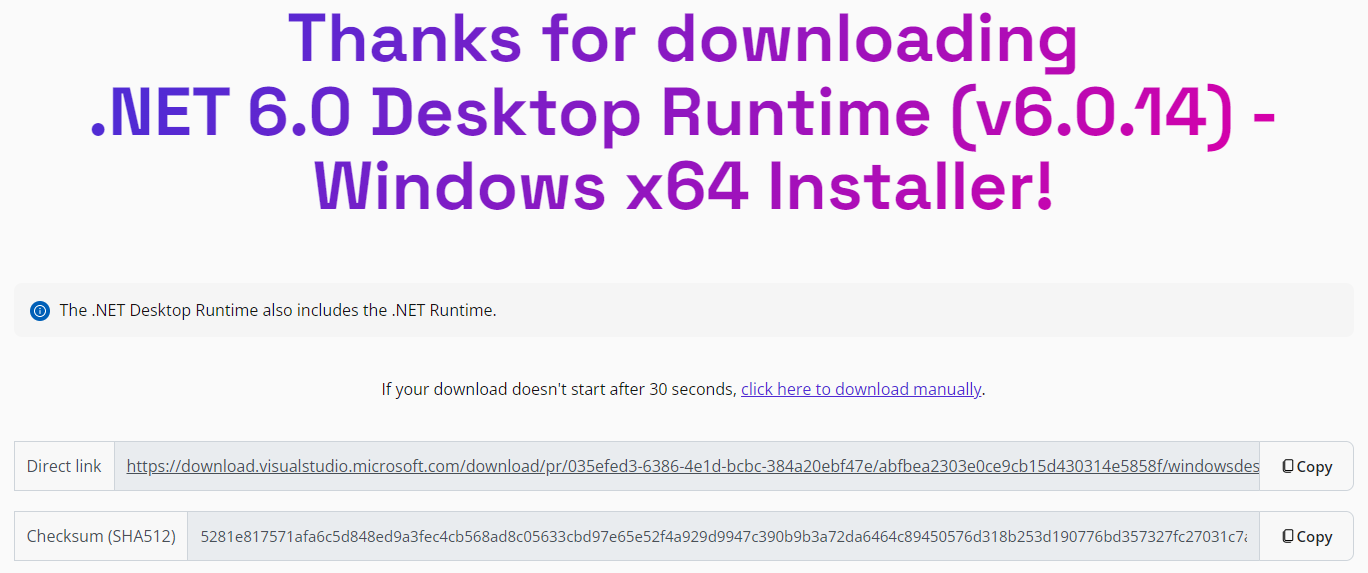
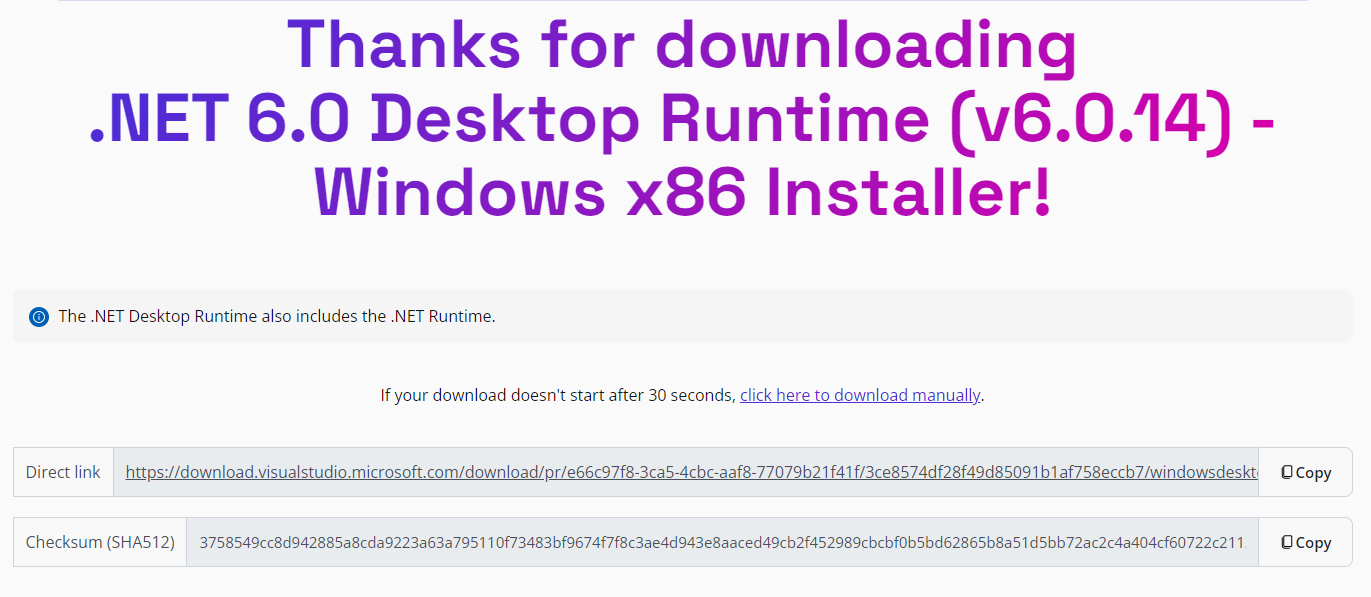
doc: correct the wrong version of runtime in README

diff --git a/README.md b/README.md
@@ -20,7 +20,7 @@
 
 ![.NET 6 desktop runtime](READMEs/.NET6_desktop_runtime.png)
 
-点击你所使用的系统架构（大部分Windows10和Windows11的用户都可以直接点x64，不会有问题）对应的链接，跳转到下载页面：
+点击**x86**对应的链接，跳转到下载页面：
 
 ![.NET 6.0 desktop runtime download page](READMEs/.NET6_desktop_runtime_download_page.png)
 
